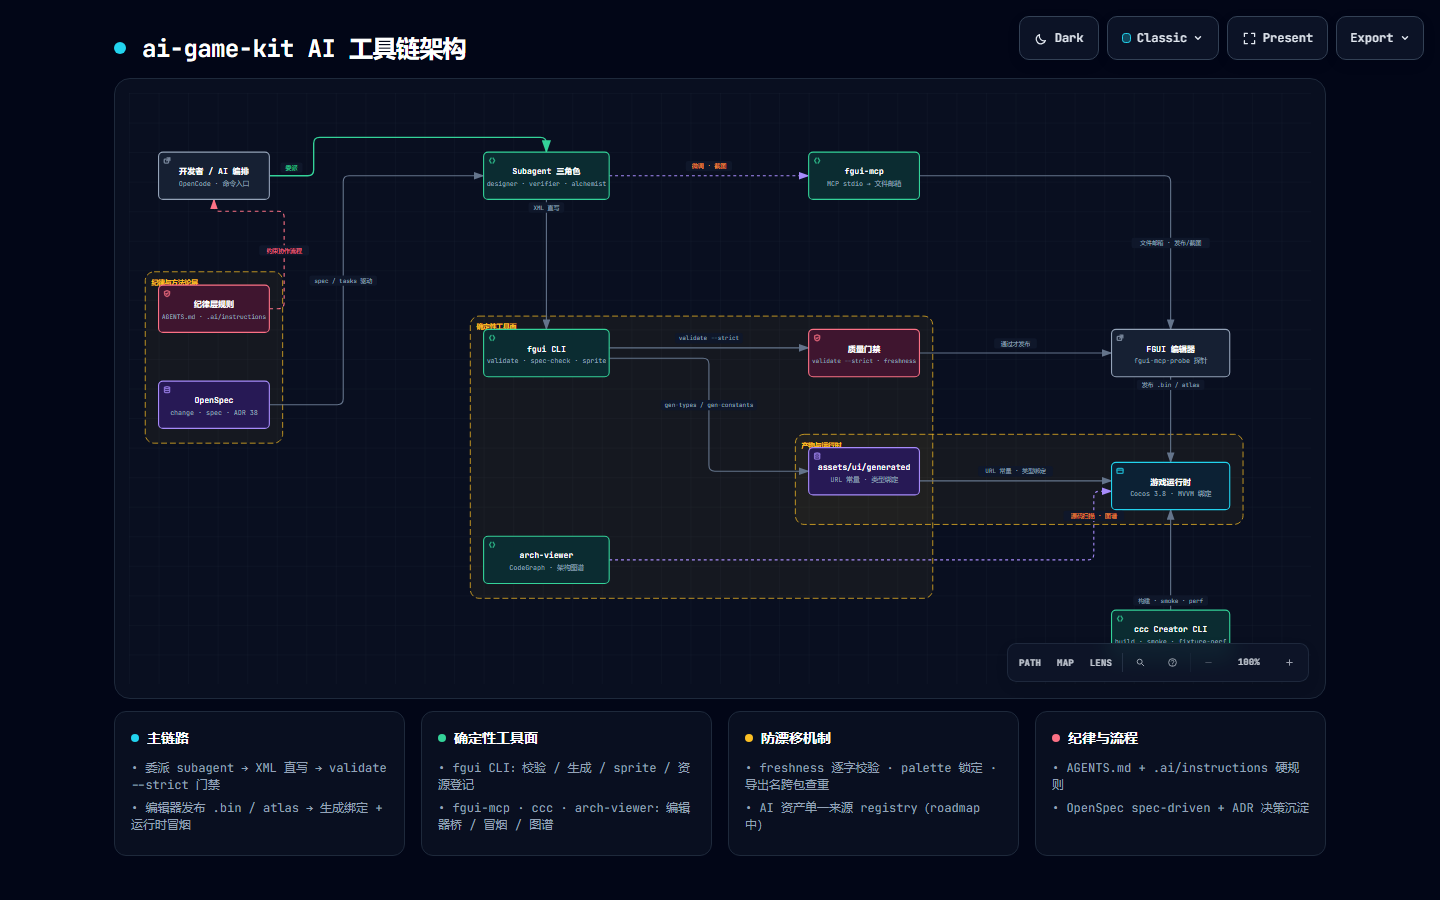
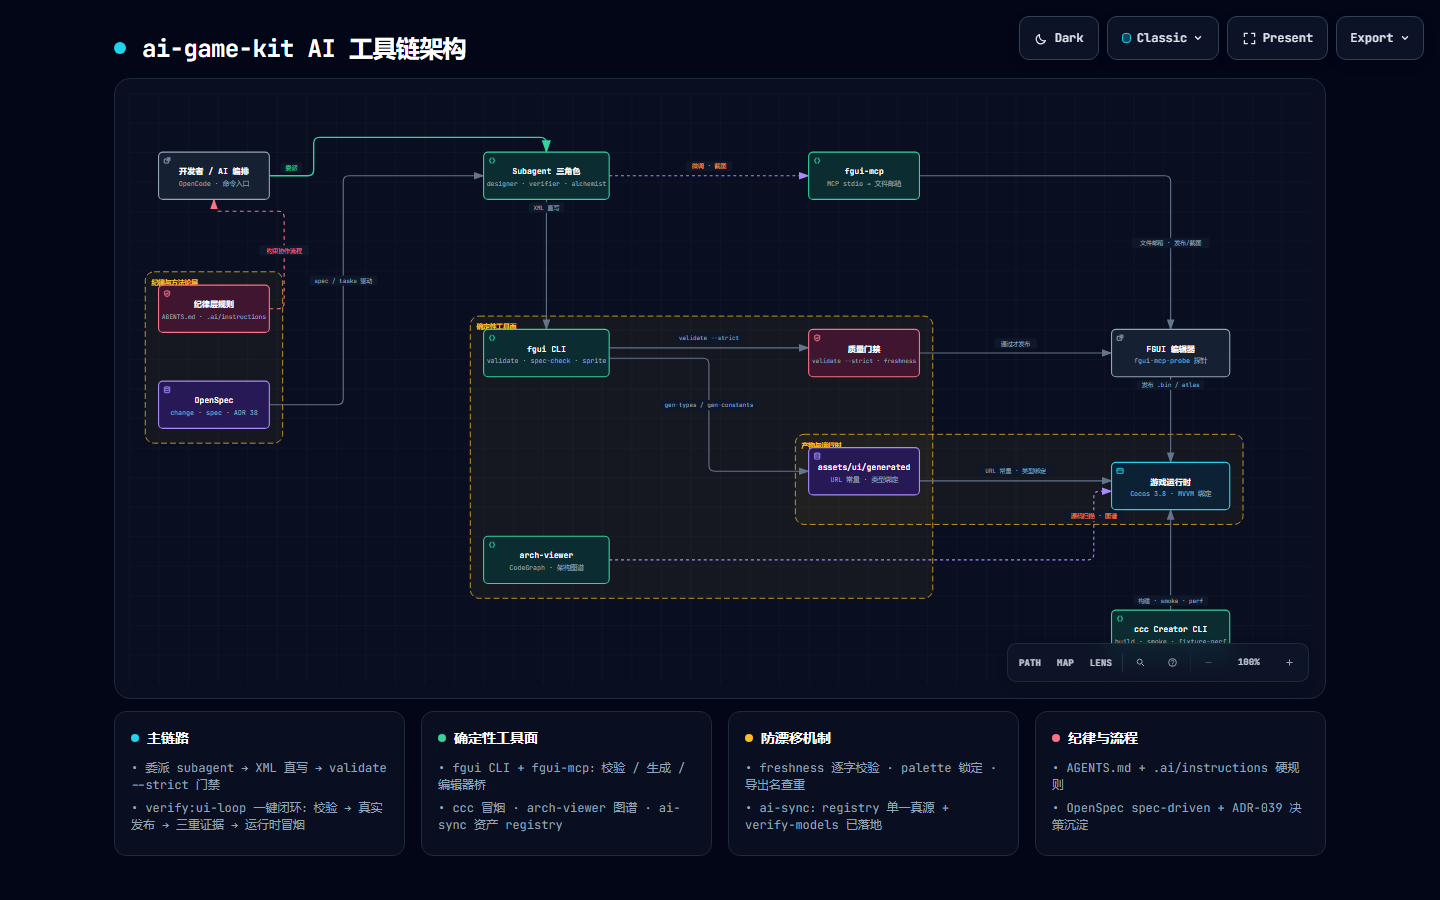
docs: AI 工具链架构图更新（落地现状）+ 治理收官总结

diff --git a/doc/architecture/ai-toolchain-architecture.html b/doc/architecture/ai-toolchain-architecture.html
@@ -5322,7 +5322,7 @@
         </div>
         <ul>
           <li>&bull; 委派 subagent → XML 直写 → validate --strict 门禁</li>
-          <li>&bull; 编辑器发布 .bin / atlas → 生成绑定 + 运行时冒烟</li>
+          <li>&bull; verify:ui-loop 一键闭环：校验 → 真实发布 → 三重证据 → 运行时冒烟</li>
         </ul>
       </div>
 
@@ -5332,8 +5332,8 @@
           <h3>确定性工具面</h3>
         </div>
         <ul>
-          <li>&bull; fgui CLI：校验 / 生成 / sprite / 资源登记</li>
-          <li>&bull; fgui-mcp · ccc · arch-viewer：编辑器桥 / 冒烟 / 图谱</li>
+          <li>&bull; fgui CLI + fgui-mcp：校验 / 生成 / 编辑器桥</li>
+          <li>&bull; ccc 冒烟 · arch-viewer 图谱 · ai-sync 资产 registry</li>
         </ul>
       </div>
 
@@ -5343,8 +5343,8 @@
           <h3>防漂移机制</h3>
         </div>
         <ul>
-          <li>&bull; freshness 逐字校验 · palette 锁定 · 导出名跨包查重</li>
-          <li>&bull; AI 资产单一来源 registry（roadmap 中）</li>
+          <li>&bull; freshness 逐字校验 · palette 锁定 · 导出名查重</li>
+          <li>&bull; ai-sync：registry 单一真源 + verify-models 已落地</li>
         </ul>
       </div>
 
@@ -5355,7 +5355,7 @@
         </div>
         <ul>
           <li>&bull; AGENTS.md + .ai/instructions 硬规则</li>
-          <li>&bull; OpenSpec spec-driven + ADR 决策沉淀</li>
+          <li>&bull; OpenSpec spec-driven + ADR-039 决策沉淀</li>
         </ul>
       </div>
     </div>

diff --git a/doc/architecture/ai-toolchain-governance-summary.md b/doc/architecture/ai-toolchain-governance-summary.md
@@ -1,0 +1,51 @@
+# AI 工具链治理收官总结
+
+> 对应 change：`openspec/changes/archive/2026-08-16-ai-toolchain-governance/`（**tasks 40/40 全部完成**）
+> 架构决策：`doc/decisions/ADR-039-ai-toolchain-governance.md`
+> 架构可视化：`doc/architecture/ai-toolchain-architecture.html`
+
+## 一、背景与目标
+
+工具链治理批次：AI 协作资产在五个工具目录（`.codex/.cursor/.claude/.opencode/.qoder`）复制无单一来源、subagent 模型硬编码无降级路径、UI spec 自由文本不可机器校验、发布验证依赖人工、creator 零单测、codegraph 索引依赖人工初始化。**明确排除 pure-ts-gate CI 门禁**（另立 change）。
+
+## 二、能力全景（六项全部落地）
+
+| 能力 | 落地产物 | 说明 |
+|---|---|---|
+| **AI 资产单一来源 registry** | `tools/ai-sync/`（workspace）+ `registry/` + `manifest.json` | skills/commands/agents 由 `bun run ai-sync sync --apply` 生成到五处工具目录；`check` 逐字 freshness（缺失/过期/多余均 error）；`doctor` 漂移诊断；结构错误短路语义。17 个资产经 `git mv` 迁入 registry |
+| **模型注册表与降级探测** | `registry/models.json` + `lib/models.ts` + `lib/probe.ts` + `verify-models` | agent frontmatter 的 `model:` 由 `{{model:<role>}}` 占位符渲染（registry 存模板、target 存实际模型名）；`verify-models` 分层探测（opencode models list → 环境变量配置检查 → 未配置），诚实标注通道状态 |
+| **UI spec 机器校验** | `tools/fgui/lib/spec.ts` + `commands/spec-check.ts` | `bun run fgui spec-check --spec <spec.json>`：字号档位（提示最近档位）、interactive 组件类型决策必填、graph/transition 禁令、relation sidePair ≤ 2、语义化命名（硬 error/软 warning）；`/fgui-create`、`/fgui-edit` 流程改为「spec.json → spec-check → XML」 |
+| **creator 纯函数层单测** | `tools/creator/test/`（29 用例） | args/env/proc/lock/log/cdp 全覆盖；`buildKillChromeCommand`/`waitForPageTarget`/`findFreePort` 最小重构暴露纯函数；不启动 Creator 进程 |
+| **codegraph 索引自动 ensure** | `tools/arch-viewer/lib/codegraph/gateway.ts` 的 `ensureCodeGraphIndex` | `bun run arch` 启动自动初始化（缺失/`status` 报 `reindexRecommended` 过期时 `codegraph init`）；`--refresh` 强制重建；CLI 缺失时索引存在容错、索引缺失透传安装指引 |
+| **发布验证闭环** | `scripts/verify-ui-loop.ts` + `bun run verify:ui-loop --package <包>` | 四阶段：`fgui validate --strict` → MailboxBridge 真实发布（`redirectToScratch:false`）→ `checkPublish` 三重证据 → `ccc ui-smoke`；退出码 0/1/2（2=环境缺失，输出恢复指引）；**本机真实链路验证通过** |
+
+## 三、落地批次与提交链
+
+| Commit | 批次 | 内容 |
+|---|---|---|
+| `090814d` | 归档 | OpenSpec 归档 + ADR-039 + 4 个 main specs 同步 |
+| `27e7cc1` | 架构图 | archify showcase 工具链架构可视化（首版） |
+| `ef765c9` | 1.x–2.x | ai-sync registry + sync/check/doctor + 测试 |
+| `145f2bb` | 3.x | 模型注册表 + agent 模板化 + verify-models |
+| `46a6338` | 4.x | fgui spec-check + 命令流程更新 + governance doc |
+| `9e26700` | 5.x | creator 纯函数层单测 |
+| `deeee14` | 7.x–9.x | codegraph ensure + 文档对齐 + 收尾 |
+| `bdd4e24` | 6.x | verify:ui-loop + 真实链路验证 |
+
+## 四、验证证据
+
+- 全门禁绿：`typecheck` 全链 / `lint` / `test` 全量（foundation + fgui 123 + fgui-mcp + arch 129 + ai-sync 43 + creator 29 + verify-ui-loop 10）
+- `ai-sync check`：50 个受管文件与 registry 逐字一致；`doctor` 0 error/0 warning
+- `openspec validate --specs --strict`：42/42
+- **真实链路**：`bun run verify:ui-loop --package Demo` 四阶段全绿（validate ✓ → 真实发布 isSuccess=true → 三重证据 ✓ → ccc ui-smoke ✓，exit 0；发布产物与源一致无 git diff）
+
+## 五、实现偏差记录（已写入 tasks.md）
+
+1. **4.1 zod → 手写校验器**：`.ai/instructions.md` 第 3 条禁止第三方运行时依赖（允许清单仅 typescript/eslint/typescript-eslint/@types/node），spec-check 改手写类型化校验器，规则语义与 design D5 一致。
+2. **8.2 verify:ui-loop 延迟登记**：6.x 未实现时 README 不登记不存在的命令；6.x 落地后（`bdd4e24`）已补登记。
+3. **Open Question（未落地）**：per-tool 命令引用变体（`.codex` 的 `$openspec-*` vs `.opencode` 的 `/opsx-*`）统一为 `/opsx-*` 风格——如未来需要 per-tool frontmatter/引用变体，registry 需支持 per-target 模板。
+
+## 六、后续建议
+
+- **恢复 CI**（另立 change）：`.github/workflows/pure-ts-gate.yml.disabled` 启用（typecheck:ci + lint + test + `fgui validate --strict` × 4 包 + openspec specs），需 GitHub Actions 仓库配置；`verify:ui-loop` 的发布/冒烟阶段属 Creator 授权层，走自托管 runner。
+- **验证回归**：本机环境已就绪，可周期性跑 `bun run verify:ui-loop --package AutoBattle/CardGame/Common` 覆盖多包闭环。
